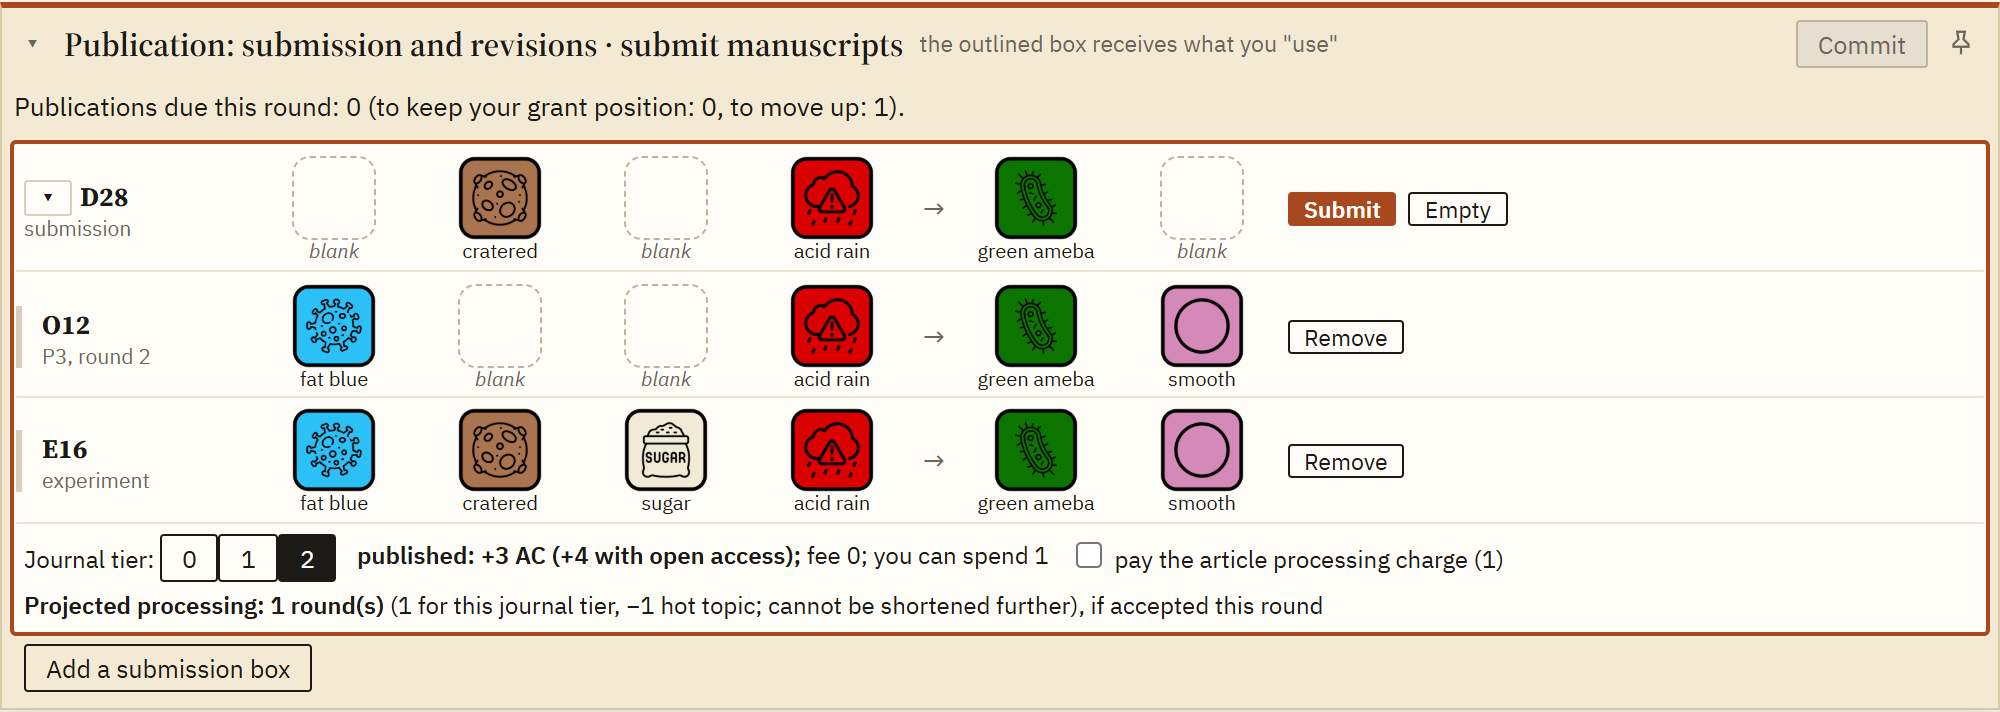
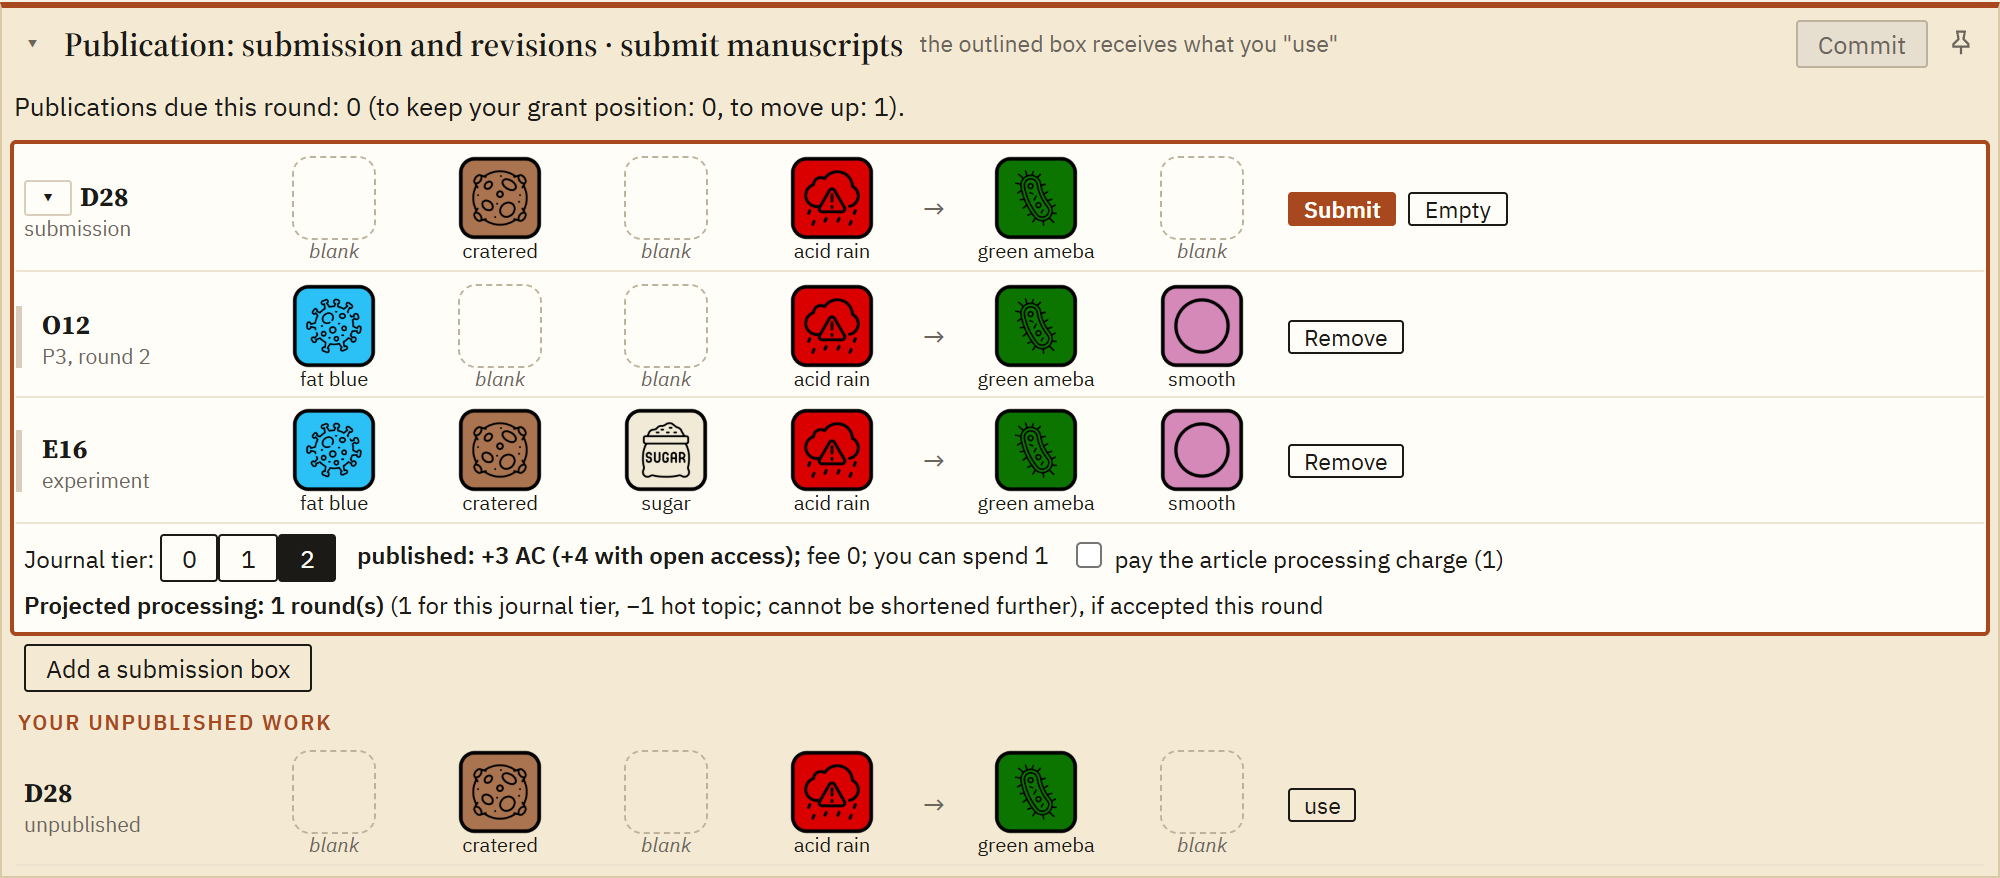
Submission task: the player's unpublished work listed below the boxes

diff --git a/web/tasks.js b/web/tasks.js
@@ -460,8 +460,11 @@ function submitRows(option) {
   for (const box of task.boxes) if (box.manuscript !== null && (!ideas.some((i) => i.id === box.manuscript) || !tiersFor(box.manuscript).length)) Object.assign(box, emptyBox());
   if (!task.boxes.length) task.boxes.push(emptyBox());
   task.target = Math.min(task.target, task.boxes.length - 1);
+  // Below the boxes, every unpublished work of the player (as in the "Your unpublished work" panel), to pick from.
+  const unpublished = ideas.map((i) => ideaStrip(i, { key: `task-D${i.id}`, tail: useIdeaButton(i) }));
   return [publicationsDue(), task.boxes.map((box, i) => submitBox(box, i, option)),
-    h("div", { class: "box-foot" }, h("button", { onclick: () => { task.boxes.push(emptyBox()); task.target = task.boxes.length - 1; redraw(); } }, t("Add a submission box")))];
+    h("div", { class: "box-foot" }, h("button", { onclick: () => { task.boxes.push(emptyBox()); task.target = task.boxes.length - 1; redraw(); } }, t("Add a submission box"))),
+    unpublished.length ? h("div", { class: "rows" }, groupLabel(t("Your unpublished work")), unpublished) : null];
 }
 
 function manuscriptActionRows(option, label) {  // revising and withdrawing: the manuscript's strip with one button

diff --git a/docs/specification.md b/docs/specification.md
@@ -285,7 +285,7 @@ The web UI's world states become icons in strips. This section records the desig
 - *Citations:* while an experiment is not valid for lack of citations, its button reads "Auto-cite and run"; once the player's own citations make it valid, "Run". The methods auto-cite would choose are highlighted lightly. Citations made by hand are kept and auto-cite only adds what is still missing. Auto-cite picks only from eligible methods and prefers, in order: the player's own methods; the methods of the author with the lowest academic credit; the method published first.
 - *Sensors:* "+" fills an eligible sensor slot, for installing and upgrading alike, and is transparent so what is under it stays visible. Pressing it opens the same citation choice, with auto-cite. Next to each "+", the academic credit for the level the sensor would reach (from the option, so the client holds no rule); once the citation row is open, the total includes the credit for citing the player's own methods. Hovering either gives the breakdown. In the Crisis the World Grid shows no sensor levels: every reading is true then.
 - *Theory formulation:* "use" on a record or on the selected strip copies its states into the theory being formulated.
-- *Submission:* a submission is a box. Its top row is the theory (placed with "use"); the supporting records go below it. A box minimises to a strip showing the theory and expands back to show the records. The article processing charge is offered under the same condition as today. Once a tier is chosen, the box shows the academic credit the paper brings when published, without and with open access (Publication scoring). While something could still be submitted or revised and nothing has been in this step, Commit is grey (but works) and asks for confirmation; after a submission or revision it takes the accent colour.
+- *Submission:* a submission is a box. Its top row is the theory (placed with "use"); the supporting records go below it. A box minimises to a strip showing the theory and expands back to show the records. The article processing charge is offered under the same condition as today. Once a tier is chosen, the box shows the academic credit the paper brings when published, without and with open access (Publication scoring). While something could still be submitted or revised and nothing has been in this step, Commit is grey (but works) and asks for confirmation; after a submission or revision it takes the accent colour. Below the boxes, the task lists every unpublished work of the player (development stacks) with its "use" button.
 - *Peer review:* the same strips that expand to boxes, in the task panel, with the vote buttons. The player's own manuscripts come first, marked "your own" in bold.
 - *Grants row:* while allocating staff, and when choosing which students leave if some of them are on Grants, the row shows how many staff the current Grant funding position needs ("grant track needs: n"); while allocating, the row is grey until it has that many. Under the allocation, and at the top of the Submission task, a line counts the player's **publications due this round** (manuscripts in the Accept area with 0 Rounds in processing tokens, published in this round's Clean-up phase) against what the position expects to keep it and to move up; it is bold while short of keeping it (`nv_core.preview.grant_publications`; not in the simplified game).
 - *Hiring:* number boxes have a large minus and plus on either side, also when choosing which students leave. "max" next to the postdoc and student boxes fills in as many as the player can have. "Repeat" fills in the player's task allocation of the previous round, as made at hiring, and leaves the hiring numbers alone. A staff column is grey until every hired staff member of that type has a task and red when too many have. The form's Commit button sets the allocation and commits in one click (the commit is sent only once the allocation is accepted), and it works only when both columns add up. Choosing which students leave is committed the same way. Until the player has chosen in the step, the postdoc and student boxes start at the most the player may have (as many postdocs as they can pay, the student hire cap). A staff column of the allocation table never holds more than that most: at the limit "+" does nothing and is outlined in red (the column's red background still marks more allocated than hired).
